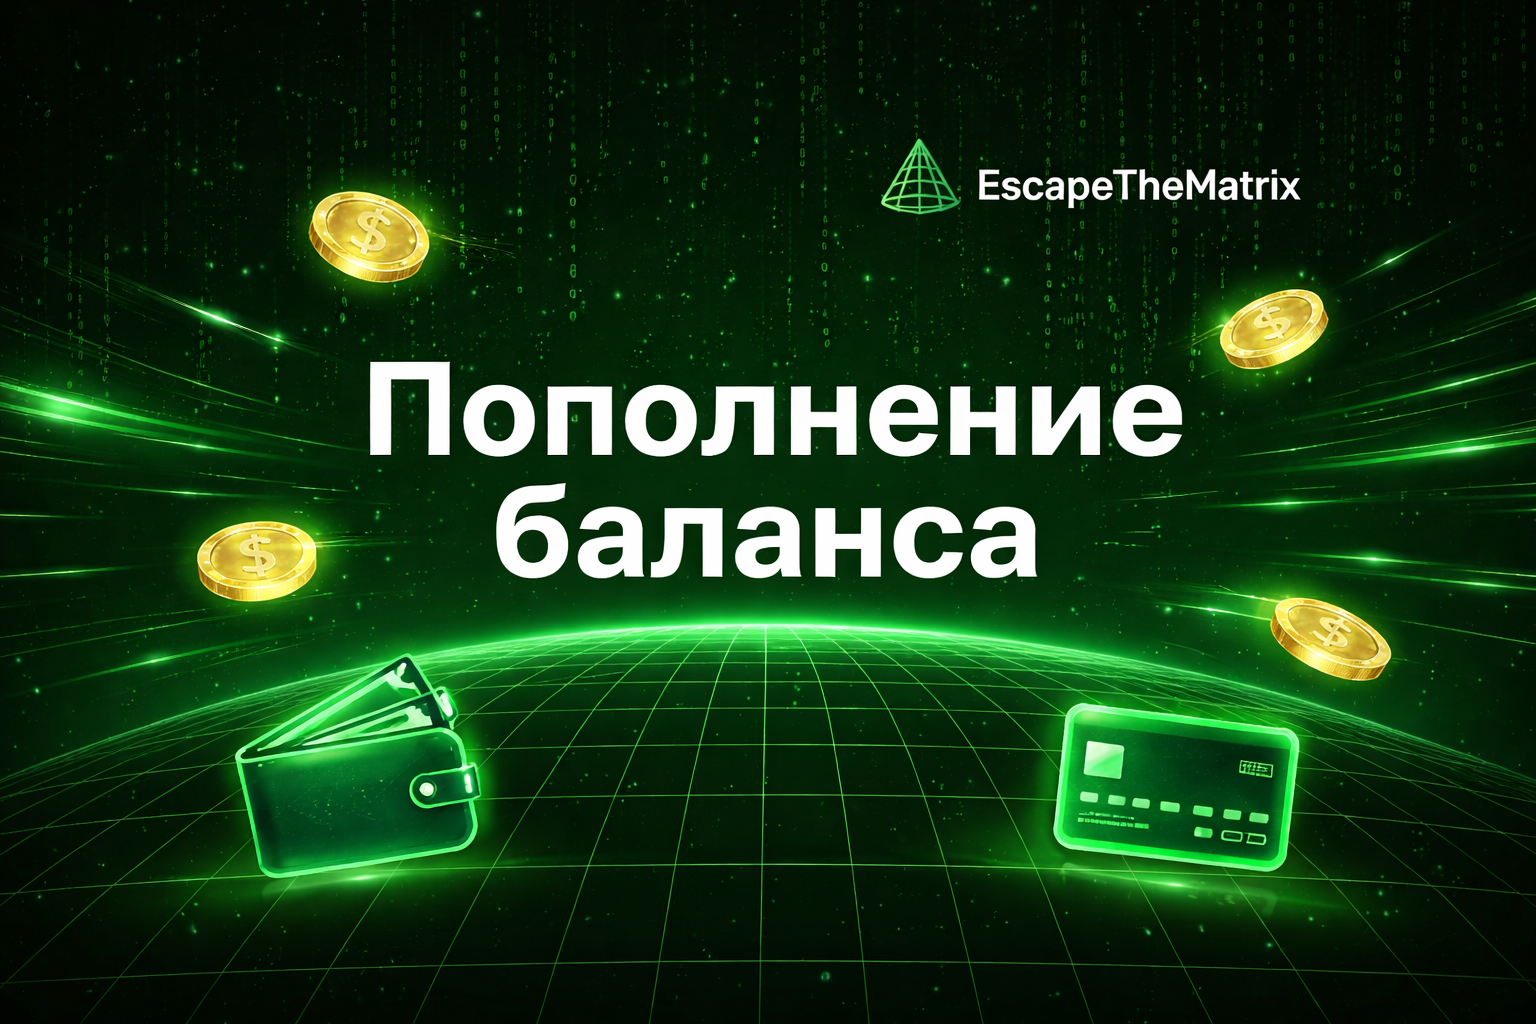
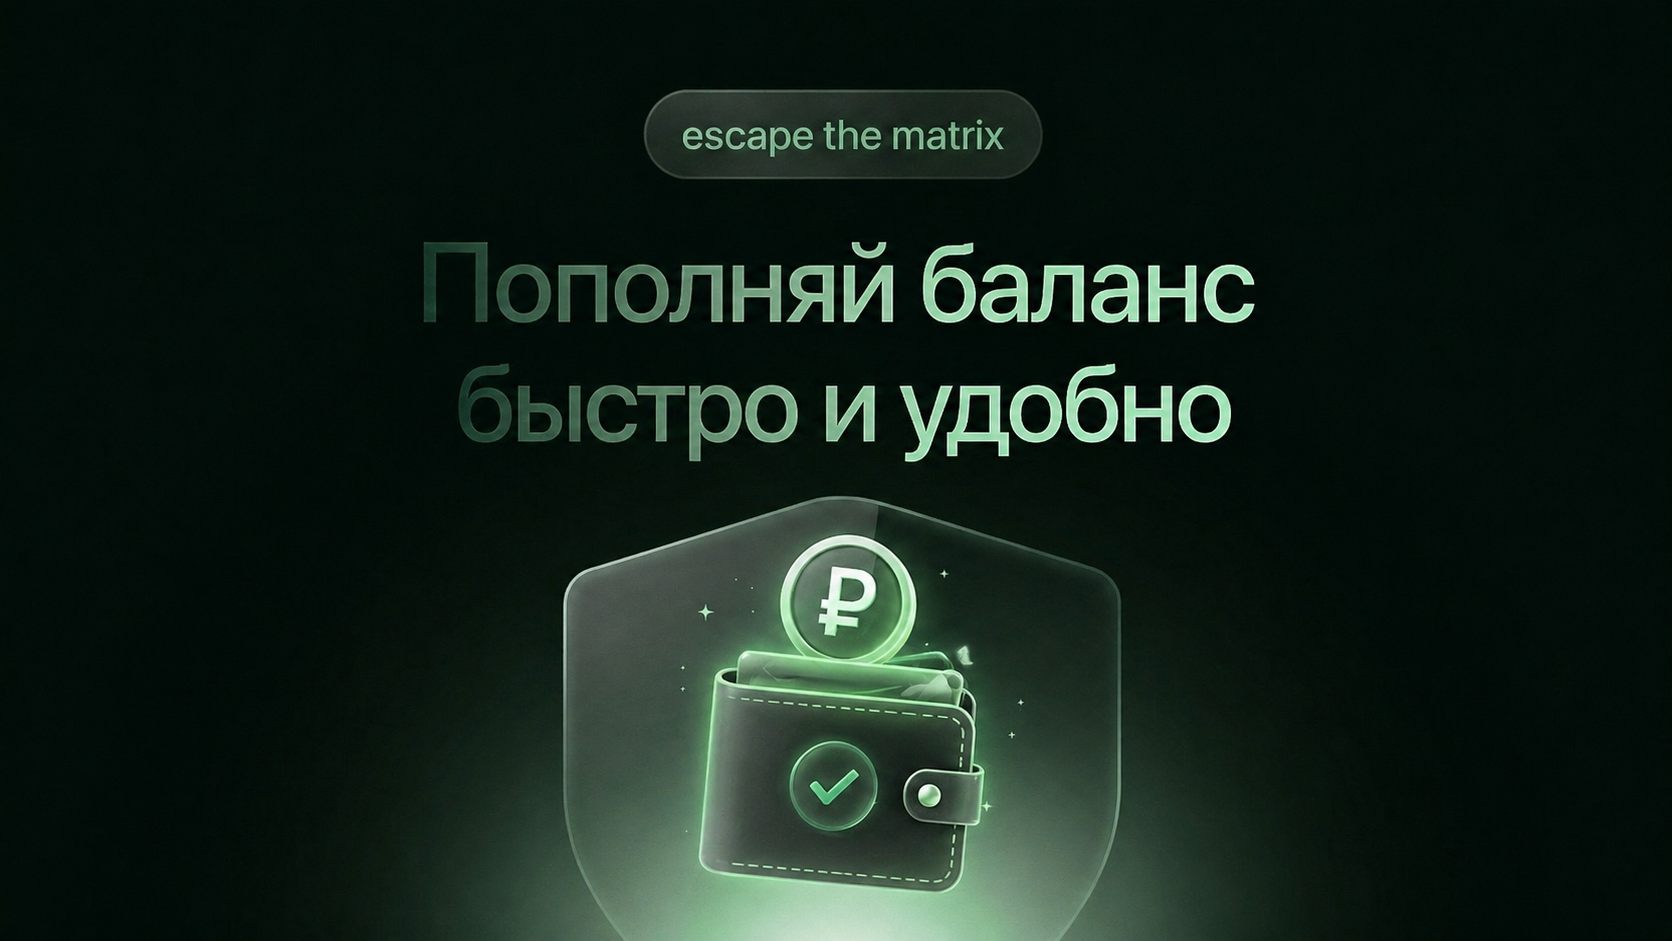
working

diff --git a/handlers/payment.py b/handlers/payment.py
@@ -14,13 +14,13 @@ from database.db import (
 from keyboards.kb import (
     plans_keyboard, pay_now_keyboard, back_keyboard,
     topup_method_keyboard, topup_crypto_keyboard, confirm_purchase_keyboard,
-    region_keyboard, REGIONS,
+    region_keyboard, region_label,
     payment_success_keyboard,
 )
 from locales.texts import t
 from services.yookassa import create_yookassa_payment, check_yookassa_payment
 from services.cryptobot import create_crypto_invoice, check_crypto_invoice, rub_to_asset
-from services.xui import create_client, update_client_ip_limit
+from services.xui import create_client, update_client_ip_limit, update_client_expiry
 from utils.helpers import generate_sub_email
 
 logger = logging.getLogger(__name__)
@@ -256,61 +256,80 @@ async def _activate_plan_balance(bot, user_id: int, plan_id: str, lang: str, reg
         if sub:
             new_limit = sub["devices_limit"] + config.EXTRA_DEVICES
             await update_devices_limit(sub["id"], new_limit)
-            await update_client_ip_limit(sub["xui_client_id"], sub["xui_email"], new_limit)
+            await update_client_ip_limit(sub["xui_client_id"], sub["xui_email"], new_limit, sub.get("region", "fi"))
             await bot.send_message(
                 user_id,
                 f"✅ Лимит устройств увеличен до {new_limit}!" if lang == "ru"
                 else f"✅ Device limit increased to {new_limit}!",
             )
         return
- 
+
     plan = config.PLANS.get(plan_id)
     if not plan:
         return
- 
+
     days = plan["days"]
     existing_sub = await get_active_subscription(user_id)
- 
-    if existing_sub:
+
+    # Если у пользователя уже есть подписка того же региона — продлеваем
+    if existing_sub and existing_sub.get("region") == region:
+        # Сохраняем старую дату в миллисекундах ДО продления в БД
+        old_expire = existing_sub["expires_at"]
+        if hasattr(old_expire, "timestamp"):
+            old_expire_ms = int(old_expire.timestamp() * 1000)
+        else:
+            # на случай, если expires_at – строка
+            from datetime import datetime, timezone
+            dt = datetime.fromisoformat(str(old_expire))
+            old_expire_ms = int(dt.replace(tzinfo=timezone.utc).timestamp() * 1000)
+
         await extend_subscription(existing_sub["id"], days)
-        await bot.send_message(
-            user_id,
-            t("payment_success", lang, sub_link=existing_sub["sub_link"]),
-            parse_mode="HTML",
-            reply_markup=payment_success_keyboard(lang), 
-        )
-    else:
-        email = generate_sub_email(user_id)
-        #todo: при добавлении нидерландского сервера передавать регион в create_client,
-        #чтобы использовался нужный inbound
-        xui_result = await create_client(email=email, days=days, devices_limit=config.MAX_DEVICES, region=region)
- 
-        if not xui_result:
-            plan_price = float(plan["price_rub"])
-            await update_balance(user_id, plan_price)
-            await bot.send_message(user_id, t("error_generic", lang))
-            logger.error(f"Failed to create xui client for user {user_id}, balance refunded")
-            return
- 
-        sub_link = xui_result["sub_link"]
-        await create_subscription(
-            user_id=user_id,
-            xui_client_id=xui_result["client_id"],
-            xui_email=email,
-            sub_link=sub_link,
-            plan=plan_id,
-            days=days,
-            devices_limit=config.MAX_DEVICES,
+        await update_client_expiry(
+            existing_sub["xui_client_id"],
+            existing_sub["xui_email"],
+            days,
+            old_expire_ms,
             region=region,
         )
- 
+        region_str = region_label(region, lang)
         await bot.send_message(
             user_id,
-            t("payment_success", lang, sub_link=sub_link),
+            t("payment_success", lang, sub_link=existing_sub["sub_link"], region_label=region_str),
             parse_mode="HTML",
-            reply_markup=payment_success_keyboard(lang), 
+            reply_markup=payment_success_keyboard(lang),
         )
+        return
 
+    # Нет подписки или регион отличается — создаём новую
+    email = generate_sub_email(user_id)
+    xui_result = await create_client(email=email, days=days, devices_limit=config.MAX_DEVICES, region=region)
+
+    if not xui_result:
+        plan_price = float(plan["price_rub"])
+        await update_balance(user_id, plan_price)
+        await bot.send_message(user_id, t("error_generic", lang))
+        logger.error(f"Failed to create xui client for user {user_id}, balance refunded")
+        return
+
+    sub_link = xui_result["sub_link"]
+    await create_subscription(
+        user_id=user_id,
+        xui_client_id=xui_result["client_id"],
+        xui_email=email,
+        sub_link=sub_link,
+        plan=plan_id,
+        days=days,
+        devices_limit=config.MAX_DEVICES,
+        region=region,
+    )
+
+    region_str = region_label(region, lang)
+    await bot.send_message(
+        user_id,
+        t("payment_success", lang, sub_link=sub_link, region_label=region_str),
+        parse_mode="HTML",
+        reply_markup=payment_success_keyboard(lang),
+    )
 
 @router.callback_query(F.data == "menu:topup")
 async def show_topup(callback: CallbackQuery):
@@ -469,6 +488,11 @@ async def _poll_topup_yookassa(bot: Bot, user_id: int, payment_id: str,
                 await mark_payment_paid(payment_id)
                 await update_balance(user_id, amount)
                 balance = await get_balance(user_id)
+                user = await get_user(user_id)
+                if user and user.get("referred_by"):
+                    referrer_id = user["referred_by"]
+                    bonus = amount * config.REFERRAL_BONUS_PERCENT / 100.0
+                    await update_balance(referrer_id, bonus)
                 await bot.send_message(
                     user_id,
                     t("balance_topped", lang, amount=amount, balance=f"{balance:.2f}"),
@@ -489,6 +513,11 @@ async def _poll_topup_crypto(bot: Bot, user_id: int, invoice_id: str,
                 await mark_payment_paid(invoice_id)
                 await update_balance(user_id, amount)
                 balance = await get_balance(user_id)
+                user = await get_user(user_id)
+                if user and user.get("referred_by"):
+                    referrer_id = user["referred_by"]
+                    bonus = amount * config.REFERRAL_BONUS_PERCENT / 100.0
+                    await update_balance(referrer_id, bonus)                
                 await bot.send_message(
                     user_id,
                     t("balance_topped", lang, amount=amount, balance=f"{balance:.2f}"),

diff --git a/locales/texts.py b/locales/texts.py
@@ -68,14 +68,14 @@ TEXTS = {
     "sub_active": {
         "ru": (
             "✅ Активна\n"
-            "🌍 Регион: 🇫🇮 Финляндия\n"
+            "🌍 Регион: {region_label}\n"
             "📅 Истекает: {expires} ({days_left} дн.)\n"
             "📱 Устройств: {limit}\n"
             "🔗 Ссылка подписки:\n<code>{sub_link}</code>"
         ),
         "en": (
             "✅ Active\n"
-            "🌍 Region: 🇫🇮 Finland\n"
+            "🌍 Region: {region_label}\n"
             "📅 Expires: {expires} ({days_left} days left)\n"
             "📱 Devices: {limit}\n"
             "🔗 Subscription link:\n<code>{sub_link}</code>"
@@ -195,14 +195,14 @@ TEXTS = {
     "payment_success": {
         "ru": (
             "✅ <b>Подписка активирована!</b>\n\n"
-            "🌍 Регион: 🇫🇮 Финляндия\n"
+            "🌍 Регион: {region_label}\n"
             "🔗 Ваша ссылка подписки:\n"
             "<code>{sub_link}</code>\n\n"
             "📱 Вставьте ссылку в приложение (Happ, FLClashX, NekoBox и др.)"
         ),
         "en": (
             "✅ <b>Subscription activated!</b>\n\n"
-            "🌍 Region: 🇫🇮 Finland\n"
+            "🌍 Region: {region_label}\n"
             "🔗 Your subscription link:\n"
             "<code>{sub_link}</code>\n\n"
             "📱 Paste the link into your VPN app (Happ, FLClashX, NekoBox, etc.)"

diff --git a/handlers/start.py b/handlers/start.py
@@ -5,7 +5,7 @@ from config import config
 from database.db import get_user, create_user, count_referrals, get_balance, get_active_subscription
 from keyboards.kb import (
     lang_keyboard, subscribe_keyboard, main_menu,
-    back_keyboard, profile_keyboard, topup_method_keyboard, region_keyboard,
+    back_keyboard, profile_keyboard, topup_method_keyboard, region_keyboard, region_label,
 )
 from locales.texts import t
 from utils.helpers import generate_profile_key, format_datetime, days_left
@@ -197,8 +197,10 @@ async def cmd_profile(message: Message):
     if sub:
         expires = format_datetime(sub["expires_at"], lang)
         d_left = days_left(sub["expires_at"])
+        sub_region_label = region_label(sub.get("region", "fi"), lang)
         sub_info = t("sub_active", lang, expires=expires, days_left=d_left,
-                     limit=sub["devices_limit"], sub_link=sub["sub_link"])
+                     limit=sub["devices_limit"], sub_link=sub["sub_link"],
+                     region_label=sub_region_label)
     else:
         sub_info = t("sub_none", lang)
 

diff --git a/handlers/profile.py b/handlers/profile.py
@@ -13,6 +13,7 @@ from keyboards.kb import (
     profile_keyboard,
     setup_platform_keyboard,
     setup_back_keyboard,
+    region_label,
 )
 from locales.texts import t
 from utils.helpers import format_datetime, days_left
@@ -60,8 +61,10 @@ async def _build_profile_text(user: dict, lang: str) -> str:
     if sub:
         expires = format_datetime(sub["expires_at"], lang)
         d_left = days_left(sub["expires_at"])
+        sub_region_label = region_label(sub.get("region", "fi"), lang)
         sub_info = t("sub_active", lang, expires=expires, days_left=d_left,
-                     limit=sub["devices_limit"], sub_link=sub["sub_link"])
+                     limit=sub["devices_limit"], sub_link=sub["sub_link"],
+                     region_label=sub_region_label)
     else:
         sub_info = t("sub_none", lang)
 

diff --git a/keyboards/kb.py b/keyboards/kb.py
@@ -9,6 +9,10 @@ REGIONS = {
     "nl": {"flag": "🇳🇱", "name_ru": "Нидерланды", "name_en": "Netherlands",  "available": True},
 }
 
+def region_label(region_id: str, lang: str) -> str:
+    region = REGIONS.get(region_id, REGIONS["fi"])
+    return f"{region['flag']} {region[f'name_{lang}']}"
+
 
 def lang_keyboard(referred_by: int = None) -> InlineKeyboardMarkup:
     def cb(lang: str) -> str:
